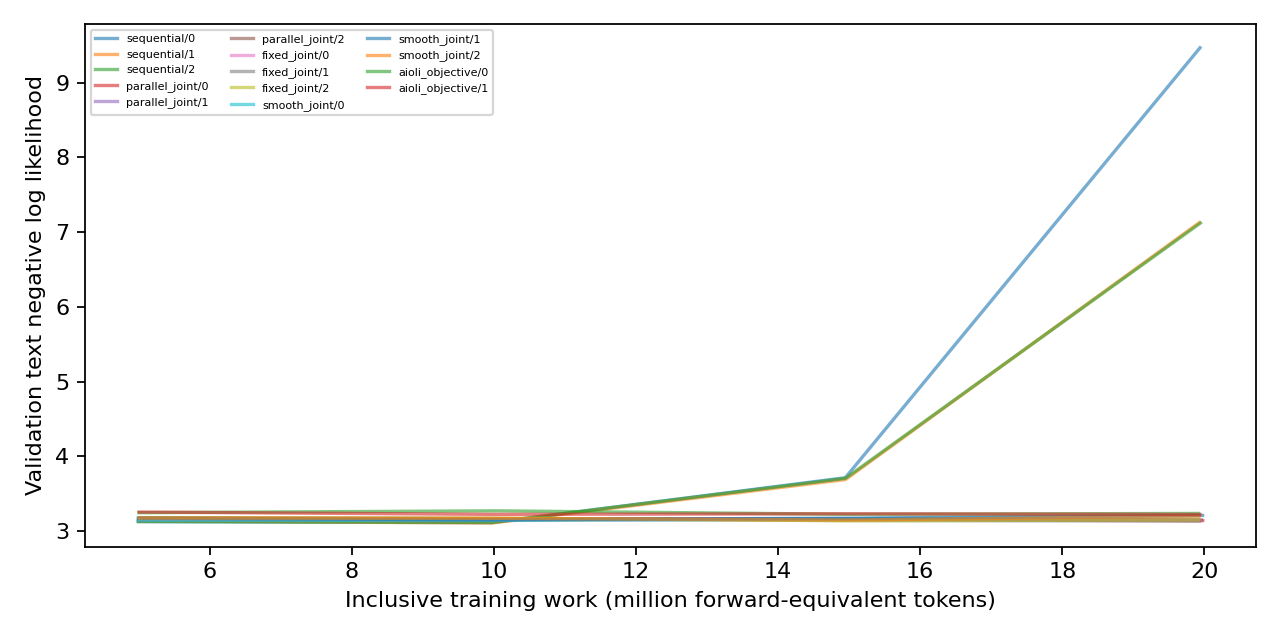
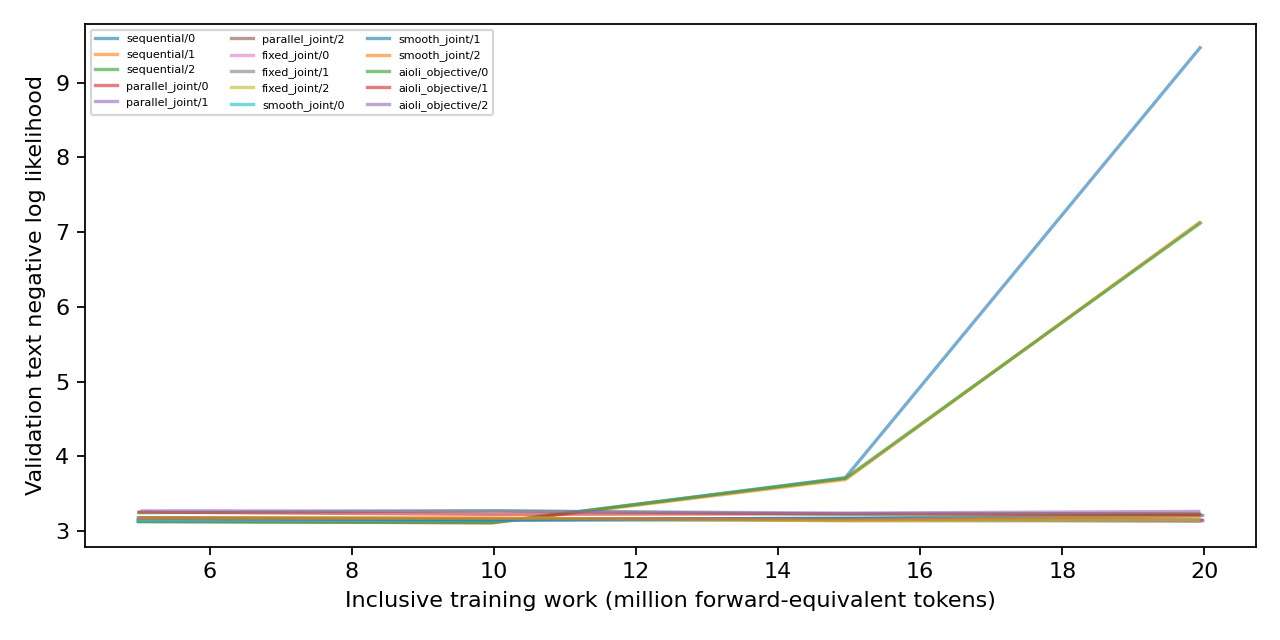
Report verified unified-training pilot progress

Changed region(s): [[0.125, 0.7812, 0.9375, 0.8125], [0.3125, 0.1562, 0.375, 0.1875]]

diff --git a/experiments/02_early_checkpoint_joint_objectives/results.md b/experiments/02_early_checkpoint_joint_objectives/results.md
@@ -18,7 +18,7 @@
 | smooth_joint | 2 | complete | 19.930 | 0.3548 [0.3358, 0.3743] | 0.0205 [0.0141, 0.0296] | 3.3144 [3.2852, 3.3428] | 0.5703 [0.5091, 0.6295] / 0.5312 [0.4701, 0.5915] |
 | aioli_objective | 0 | complete | 19.921 | 0.3535 [0.3346, 0.3730] | 0.0235 [0.0166, 0.0332] | 3.3669 [3.3388, 3.3945] | 0.5820 [0.5208, 0.6408] / 0.5664 [0.5052, 0.6257] |
 | aioli_objective | 1 | complete | 19.939 | 0.3291 [0.3105, 0.3483] | 0.0174 [0.0116, 0.0260] | 3.3377 [3.3090, 3.3658] | 0.6250 [0.5643, 0.6820] / 0.4414 [0.3819, 0.5027] |
-| aioli_objective | 2 | pending | unavailable | unavailable | unavailable | unavailable | unavailable |
+| aioli_objective | 2 | complete | 19.921 | 0.3434 [0.3246, 0.3628] | 0.0197 [0.0135, 0.0287] | 3.3578 [3.3301, 3.3857] | 0.5898 [0.5287, 0.6483] / 0.5352 [0.4740, 0.5953] |
 | validation_progress | 0 | pending | unavailable | unavailable | unavailable | unavailable | unavailable |
 | validation_progress | 1 | pending | unavailable | unavailable | unavailable | unavailable | unavailable |
 | validation_progress | 2 | pending | unavailable | unavailable | unavailable | unavailable | unavailable |
@@ -33,7 +33,7 @@ NLL = negative log likelihood; preference raw ordering is the preference endpoin
 
 Intervals: 95% Wilson binary-item score, conditional on each trained model; p-val=n/a (no hypothesis test). Three seeds do not establish universal superiority. Aioli, CHORD (Controllable Harmonization of On- and Off-Policy Reinforcement Learning via Dynamic Weighting), and RPT (Reinforcement Pre-Training) are declared adaptations; exact CHERRY-RL identity remains unresolved.
 
-Complete: 14/24. See `expt_v1/PROTOCOL.md` and the program review reconciliation.
+Complete: 15/24. See `expt_v1/PROTOCOL.md` and the program review reconciliation.
 
 Seed uncertainty, two-stage seed/item intervals, initial-checkpoint changes and all paired comparisons: `expt_v1/analysis.json`. Missing trained seeds remain missing with separate accuracy sensitivity bounds. p-val=n/a throughout; no formal superiority verdict.
 

diff --git a/experiments/00_program/FINAL_STATUS.md b/experiments/00_program/FINAL_STATUS.md
@@ -1,6 +1,6 @@
 # Full-program status
 
-Verified cells: 38/48; failed: 0; interrupted: 0; pending: 10; unstarted at global bound: 0.
+Verified cells: 39/48; failed: 0; interrupted: 0; pending: 9; unstarted at global bound: 0.
 
 Full-program execution is incomplete. Required plan and implementation findings are reconciled; see acceptance.json.
 Results and uncertainty are in each experiment folder; no universal-superiority claim.
